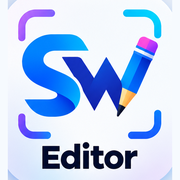
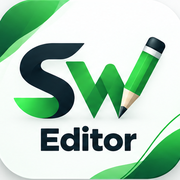
Add files via upload

diff --git a/index.html b/index.html
@@ -8,7 +8,7 @@
 <meta name="apple-mobile-web-app-capable" content="yes">
 <meta name="mobile-web-app-capable" content="yes">
 <meta name="apple-mobile-web-app-title" content="SW Editor">
-<meta name="theme-color" content="#7C3AED">
+<meta name="theme-color" content="#15803D">
 <link rel="stylesheet" href="https://fonts.googleapis.com/css2?family=Sora:wght@500;700&family=Inter:wght@400;500;600&display=swap">
 <style>
 :root{--bg:#F6F8FD;--card:#fff;--ink:#12122A;--mute:#6B6F8A;--line:rgba(18,18,42,.1);--a:#7C3AED;--b:#06B6D4;--grad:linear-gradient(135deg,var(--a),var(--b));--glass:rgba(255,255,255,.72);--sh:0 10px 30px rgba(40,30,90,.15)}
@@ -74,9 +74,11 @@ nav svg,.ib svg{width:24px;height:24px;stroke:currentColor;fill:none;stroke-widt
 .sheet h3{margin-bottom:12px}.sheet .lab{color:var(--mute);margin:14px 0 8px;font-size:13px}
 .tour{text-align:center;padding:8px 4px}.tour .em{font-size:54px}.tour h3{margin:8px 0 4px}.tour p{color:var(--mute);margin-bottom:16px}
 @media(prefers-reduced-motion:reduce){*{animation:none!important;transition:none!important}}
-html[data-pack=purple]{--a:#3F3F46;--b:#8E8E96;--bg:#F2F2F4;--glass:rgba(237,237,239,.7)}
-html[data-pack=purple][data-mode=dark]{--a:#52525B;--bg:#0B0B0E;--glass:rgba(34,34,38,.6)}
-@media(prefers-color-scheme:dark){html[data-pack=purple][data-mode=auto]{--a:#52525B;--bg:#0B0B0E;--glass:rgba(34,34,38,.6)}}
+html[data-pack=purple]{--a:#15803D;--b:#22C55E;--bg:#F4F9F5;--card:#fff;--ink:#0F1F2E;--mute:#5E6F68;--line:rgba(15,31,46,.1);--glass:rgba(255,255,255,.78);--sh:0 10px 30px rgba(21,128,61,.16)}
+html[data-pack=purple][data-mode=dark]{--a:#22C55E;--b:#4ADE80;--bg:#07120C;--card:#0F1E16;--ink:#ECF6EF;--mute:#93A89C;--line:rgba(255,255,255,.1);--glass:rgba(15,30,22,.72);--sh:0 10px 30px rgba(0,0,0,.55)}
+@media(prefers-color-scheme:dark){html[data-pack=purple][data-mode=auto]{--a:#22C55E;--b:#4ADE80;--bg:#07120C;--card:#0F1E16;--ink:#ECF6EF;--mute:#93A89C;--line:rgba(255,255,255,.1);--glass:rgba(15,30,22,.72);--sh:0 10px 30px rgba(0,0,0,.55)}}
+html[data-pack=purple] .btn,html[data-pack=purple] .hero,html[data-pack=purple] nav button.on,html[data-pack=purple] .seg button.on{background:linear-gradient(135deg,#15803D,#22C55E)}
+html[data-pack=purple][data-mode=dark] .btn,html[data-pack=purple][data-mode=dark] .hero,html[data-pack=purple][data-mode=dark] nav button.on,html[data-pack=purple][data-mode=dark] .seg button.on{color:#05210F;background:linear-gradient(135deg,#22C55E,#4ADE80)}
 header{border-radius:0 0 28px 28px;backdrop-filter:blur(28px) saturate(1.8);-webkit-backdrop-filter:blur(28px) saturate(1.8)}
 nav{backdrop-filter:blur(30px) saturate(1.8);-webkit-backdrop-filter:blur(30px) saturate(1.8);border:1px solid rgba(255,255,255,.5)}
 .sheet{background:var(--glass);backdrop-filter:blur(34px) saturate(1.8);-webkit-backdrop-filter:blur(34px) saturate(1.8);border-radius:36px 36px 0 0}
@@ -84,6 +86,20 @@ nav{backdrop-filter:blur(30px) saturate(1.8);-webkit-backdrop-filter:blur(30px) 
 .ib,.btn,.seg button,nav button{transition:transform .15s}.ib:active,.btn:active,.seg button:active,nav button:active{transform:scale(.94)}
 .stage{overflow:hidden;position:sticky;top:0;z-index:6;max-height:40vh}#cv{max-height:40vh;touch-action:none;transition:transform .3s}
 #ptabs{flex-wrap:nowrap;overflow-x:auto}#ptabs button{flex:none}
+
+/* header banner */
+header{position:relative;height:calc(env(safe-area-inset-top) + 72px);padding:env(safe-area-inset-top) 0 0;background:#fff url(banner.png) center/cover no-repeat;border:0;border-radius:0 0 26px 26px;box-shadow:0 6px 22px rgba(21,128,61,.14);backdrop-filter:none;-webkit-backdrop-filter:none}
+header .ib{position:absolute;right:12px;bottom:18px;width:38px;height:38px;background:rgba(255,255,255,.85);border-color:rgba(21,128,61,.25);color:#0F1F2E}
+.sr{position:absolute;width:1px;height:1px;overflow:hidden;clip:rect(0 0 0 0)}
+/* fixed preview on top, tools scroll below */
+.stage{position:relative;top:auto;max-height:36vh;flex:none}
+#cv{max-height:36vh}#vc{max-height:34vh!important}
+.tools{min-height:0}
+main:has(#t-photo.on #ph-ed:not(.hide)),main:has(#t-video.on){overflow:hidden;padding-bottom:0;display:flex;flex-direction:column}
+#t-photo.on:has(#ph-ed:not(.hide)),#t-video.on{flex:1;min-height:0;display:flex;flex-direction:column}
+#ph-ed:not(.hide){flex:1;min-height:0;display:flex;flex-direction:column}
+.tools{flex:1;overflow-y:auto;-webkit-overflow-scrolling:touch;overscroll-behavior:contain;padding-bottom:calc(104px + env(safe-area-inset-bottom))}
+#ph-ed .bar,#t-video .bar{flex:none;flex-wrap:nowrap;overflow-x:auto}
 </style></head>
 <body>
 <section id="login">
@@ -100,7 +116,7 @@ nav{backdrop-filter:blur(30px) saturate(1.8);-webkit-backdrop-filter:blur(30px) 
 </section>
 
 <div id="app" class="hide">
-  <header><img src="mark.png" alt=""><div class="brand">SW Editor</div>
+  <header><span class="sr">SW Editor</span>
     <button class="ib" id="menu" aria-label="Settings"><svg viewBox="0 0 24 24"><circle cx="12" cy="12" r="3"/><path d="M19.4 15a1.7 1.7 0 0 0 .3 1.8l.1.1a2 2 0 1 1-2.8 2.8l-.1-.1a1.7 1.7 0 0 0-1.8-.3 1.7 1.7 0 0 0-1 1.5V21a2 2 0 1 1-4 0v-.1a1.7 1.7 0 0 0-1-1.5 1.7 1.7 0 0 0-1.8.3l-.1.1a2 2 0 1 1-2.8-2.8l.1-.1a1.7 1.7 0 0 0 .3-1.8 1.7 1.7 0 0 0-1.5-1H3a2 2 0 1 1 0-4h.1a1.7 1.7 0 0 0 1.5-1 1.7 1.7 0 0 0-.3-1.8l-.1-.1a2 2 0 1 1 2.8-2.8l.1.1a1.7 1.7 0 0 0 1.8.3h0a1.7 1.7 0 0 0 1-1.5V3a2 2 0 1 1 4 0v.1a1.7 1.7 0 0 0 1 1.5h0a1.7 1.7 0 0 0 1.8-.3l.1-.1a2 2 0 1 1 2.8 2.8l-.1.1a1.7 1.7 0 0 0-.3 1.8v0a1.7 1.7 0 0 0 1.5 1H21a2 2 0 1 1 0 4h-.1a1.7 1.7 0 0 0-1.5 1z"/></svg></button>
   </header>
   <main>
@@ -110,8 +126,8 @@ nav{backdrop-filter:blur(30px) saturate(1.8);-webkit-backdrop-filter:blur(30px) 
       <div id="ph-ed" class="hide">
         <div class="bar"><button class="ib" id="un">Undo</button><button class="ib" id="re">Redo</button><button class="ib" id="bf">Before</button><button class="ib" id="gd">Grid</button><button class="ib" id="zm">Zoom: on</button><button class="ib" id="nw">New photo</button></div>
         <div class="stage" id="stage"><canvas id="cv"></canvas><div class="grid hide" id="grid"></div></div>
-        <div class="seg" id="ptabs" style="margin:12px 0"><button data-p="crop" class="on">Crop</button><button data-p="adj">Adjust</button><button data-p="flt">Filters</button><button data-p="skin">Skin</button><button data-p="rs">Resize</button><button data-p="ex">Export</button></div>
-        <div class="card pp" id="p-crop"><div class="seg" id="ratios"><button data-r="1">1:1</button><button data-r="0.8">4:5</button><button data-r="0.5625">9:16</button><button data-r="1.7778">16:9</button><button data-r="1.3333">4:3</button></div>
+        <div class="seg" id="ptabs" style="margin:12px 0;flex:none"><button data-p="crop" class="on">Crop</button><button data-p="adj">Adjust</button><button data-p="flt">Filters</button><button data-p="skin">Skin</button><button data-p="rs">Resize</button><button data-p="ex">Export</button></div>
+        <div class="tools"><div class="card pp" id="p-crop"><div class="seg" id="ratios"><button data-r="1">1:1</button><button data-r="0.8">4:5</button><button data-r="0.5625">9:16</button><button data-r="1.7778">16:9</button><button data-r="1.3333">4:3</button></div>
           <div class="seg" style="margin-top:10px"><button id="rl">Rotate left</button><button id="rr">Rotate right</button><button id="fh">Flip H</button><button id="fv">Flip V</button></div></div>
         <div class="card pp hide" id="p-adj"><div class="sl"><span>Brightness</span><input type="range" id="a-b" min="-100" max="100" value="0"></div><div class="sl"><span>Contrast</span><input type="range" id="a-c" min="-100" max="100" value="0"></div><div class="sl"><span>Saturation</span><input type="range" id="a-s" min="-100" max="100" value="0"></div><div class="sl"><span>Sharpness</span><input type="range" id="a-sh" min="0" max="100" value="0"></div><button class="ib" id="a-rs" style="width:auto;padding:0 14px">Reset</button></div>
         <div class="card pp hide" id="p-flt"></div>
@@ -119,14 +135,14 @@ nav{backdrop-filter:blur(30px) saturate(1.8);-webkit-backdrop-filter:blur(30px) 
         <div class="card pp hide" id="p-rs"><div class="sl"><span id="rs-l">Size 100%</span><input type="range" id="rs-r" min="20" max="100" value="100"></div><button class="btn" id="rs-go">Apply resize</button></div>
         <div class="card pp hide" id="p-ex"><div class="lab">Format</div><div class="seg" id="fm"><button data-v="jpeg" class="on">JPG</button><button data-v="png">PNG</button></div>
           <div class="lab" style="margin-top:10px">Quality</div><div class="seg" id="ql"><button data-v=".6">Low</button><button data-v=".8">Medium</button><button data-v=".95" class="on">High</button></div>
-          <button class="ib" id="ex-pv" style="width:auto;padding:0 14px;margin-top:12px">Preview</button><button class="btn" id="ex-go" style="margin-top:14px">Save / Share</button></div>
+          <button class="ib" id="ex-pv" style="width:auto;padding:0 14px;margin-top:12px">Preview</button><button class="btn" id="ex-go" style="margin-top:14px">Save / Share</button></div></div>
       </div></div>
     <div class="tab" id="t-video">
       <label class="btn" style="display:block;text-align:center;cursor:pointer">Add video clips<input id="vfile" type="file" accept="video/*" multiple hidden></label>
       <div class="stage" style="margin-top:12px"><canvas id="vc" width="640" height="360" style="max-width:100%;max-height:42vh"></canvas></div>
       <div class="bar" style="margin-top:10px"><button class="ib" id="vplay">Play</button><button class="ib" id="vsplit">Split</button><button class="ib" id="vdel">Delete</button><button class="ib" id="vbf">Before</button><button class="ib" id="vl">Left</button><button class="ib" id="vr">Right</button></div>
-      <div class="seg" id="vclips" style="margin-bottom:10px"></div>
-      <div class="card"><div class="sl"><span id="l-in">Trim start</span><input type="range" id="vin" min="0" max="1" step="0.1" value="0"></div><div class="sl"><span id="l-out">Trim end</span><input type="range" id="vout" min="0" max="1" step="0.1" value="1"></div><div class="sl"><span id="l-sk">Split position</span><input type="range" id="vseek" min="0" max="1" step="0.1" value="0"></div>
+      <div class="seg" id="vclips" style="margin-bottom:10px;flex-wrap:nowrap;overflow-x:auto;flex:none"></div>
+      <div class="tools"><div class="card"><div class="sl"><span id="l-in">Trim start</span><input type="range" id="vin" min="0" max="1" step="0.1" value="0"></div><div class="sl"><span id="l-out">Trim end</span><input type="range" id="vout" min="0" max="1" step="0.1" value="1"></div><div class="sl"><span id="l-sk">Split position</span><input type="range" id="vseek" min="0" max="1" step="0.1" value="0"></div>
         <div class="lab">Speed</div><div class="seg" id="vsp"><button data-v="0.5">0.5x</button><button data-v="1" class="on">1x</button><button data-v="1.5">1.5x</button><button data-v="2">2x</button></div>
         <div class="sl" style="margin-top:10px"><span>Clip volume</span><input type="range" id="vvol" min="0" max="1" step="0.05" value="1"></div></div>
       <div class="card"><div class="lab">Aspect ratio</div><div class="seg" id="vas"><button data-v="0" class="on">Original</button><button data-v="0.5625">9:16</button><button data-v="1">1:1</button><button data-v="1.7778">16:9</button></div>
@@ -136,7 +152,7 @@ nav{backdrop-filter:blur(30px) saturate(1.8);-webkit-backdrop-filter:blur(30px) 
         <div class="lab" style="margin-top:10px">Music</div><label class="ib" style="width:auto;padding:0 14px;display:inline-grid;cursor:pointer" id="vmus">Choose music<input id="vmf" type="file" accept="audio/*" hidden></label>
         <div class="sl" style="margin-top:8px"><span>Music volume</span><input type="range" id="vmv" min="0" max="1" step="0.05" value="0.7"></div></div>
       <div class="card"><div class="lab">Export quality</div><div class="seg" id="vrs"><button data-v="720" class="on">720p</button><button data-v="1080">1080p</button></div>
-        <button class="btn" id="vex" style="margin-top:12px">Export video</button><p id="vst" style="color:var(--mute);font-size:13px;margin-top:8px">Export runs in real time and takes as long as the video. Keep the screen on and don't close the app.</p></div>
+        <button class="btn" id="vex" style="margin-top:12px">Export video</button><p id="vst" style="color:var(--mute);font-size:13px;margin-top:8px">Export runs in real time and takes as long as the video. Keep the screen on and don't close the app.</p></div></div>
     </div>
     <div class="tab" id="t-proj">
       <input id="pq" placeholder="Search projects" style="width:100%;padding:12px;border-radius:12px;border:1px solid var(--line);background:var(--card);color:var(--ink);margin-bottom:10px">
@@ -188,7 +204,7 @@ $("#nav").onclick=e=>{const b=e.target.closest("button");if(!b)return;buzz();
 // sheets
 function sheet(html){const s=document.createElement("div");s.className="shade";s.innerHTML=`<div class="sheet">${html}</div>`;
  s.onclick=e=>{if(e.target===s)s.remove()};document.body.append(s);return s}
-function themeSheet(){const s=sheet(`<h3>Theme</h3><div class="lab">Colour</div><div class="seg" id="sp"><button data-v="purple">Soft Grey</button><button data-v="orange">Sunset Orange</button><button data-v="amoled">AMOLED Black</button></div><div class="lab">Mode</div><div class="seg" id="sm"><button data-v="auto">Auto</button><button data-v="light">Light</button><button data-v="dark">Dark</button></div>`);
+function themeSheet(){const s=sheet(`<h3>Theme</h3><div class="lab">Colour</div><div class="seg" id="sp"><button data-v="purple">SW Green</button><button data-v="orange">Sunset Orange</button><button data-v="amoled">AMOLED Black</button></div><div class="lab">Mode</div><div class="seg" id="sm"><button data-v="auto">Auto</button><button data-v="light">Light</button><button data-v="dark">Dark</button></div>`);
  const mark=()=>{s.querySelectorAll("#sp button").forEach(b=>b.classList.toggle("on",b.dataset.v===(ls.get("pack")||"purple")));
   s.querySelectorAll("#sm button").forEach(b=>b.classList.toggle("on",b.dataset.v===(ls.get("mode")||"auto")))};mark();
  s.querySelector("#sp").onclick=e=>{if(e.target.dataset.v){buzz();ls.set("pack",e.target.dataset.v);applyTheme();mark()}};
@@ -215,6 +231,7 @@ function bl(s,w,h,r,ch){const T=new s.constructor(s.length),O=new s.constructor(
  for(let y=0;y<h;y++)for(let c=0;c<ch;c++){let a=0;const R=y*w;for(let x=-r;x<=r;x++)a+=s[(R+cl(x,w-1))*ch+c];for(let x=0;x<w;x++){T[(R+x)*ch+c]=a/n;a+=s[(R+cl(x+r+1,w-1))*ch+c]-s[(R+cl(x-r,w-1))*ch+c]}}
  for(let x=0;x<w;x++)for(let c=0;c<ch;c++){let a=0;for(let y=-r;y<=r;y++)a+=T[(cl(y,h-1)*w+x)*ch+c];for(let y=0;y<h;y++){O[(y*w+x)*ch+c]=a/n;a+=T[(cl(y+r+1,h-1)*w+x)*ch+c]-T[(cl(y-r,h-1)*w+x)*ch+c]}}
  return O}
+const ed=(r,g,b,L,i)=>{const q=Math.abs(r-L[i])+Math.abs(g-L[i+1])+Math.abs(b-L[i+2]);return q>=70?.15:1-.85*q/70};
 function proc(src,a){const w=src.width,h=src.height,o=mk(w,h),x=o.getContext("2d");x.drawImage(src,0,0);
  const F=FL[a.f],k=a.fs/100,sk=a.sm||a.gl||a.tn||a.ev||a.wr||a.sy||a.tp||a.wh;
  if(!a.b&&!a.c&&!a.s&&!a.sh&&!F&&!sk)return o;
@@ -225,9 +242,9 @@ function proc(src,a){const w=src.width,h=src.height,o=mk(w,h),x=o.getContext("2d
   for(let p=0;p<m.length;p++){const i=p*4,r=d[i],g=d[i+1],b=d[i+2],cb=128-.1687*r-.3313*g+.5*b,cr=128+.5*r-.4187*g-.0813*b;if(cb>77&&cb<127&&cr>133&&cr<173&&r>60)m[p]=1}
   const rS=Math.max(2,Math.round(w/110)),mk2=bl(m,w,h,3,1),bs=(a.sm||a.gl)?bl(d,w,h,rS,4):0,bw=a.wr?bl(d,w,h,Math.max(1,rS>>1),4):0,be=a.ev?bl(d,w,h,rS*5,4):0;
   for(let p=0;p<m.length;p++){let M=mk2[p];if(a.fr&&M>=.03){const dd=Math.hypot(p%w-a.fx*w,(p/w|0)-a.fy*h)/(a.fr/100*Math.min(w,h)),q=dd<1?1:dd<1.25?1-(dd-1)/.25:0;M*=q+(1-q)*a.bd/100}if(M<.03)continue;const i=p*4;let r=d[i],g=d[i+1],b=d[i+2],t;
-   if(a.sm){t=Math.min(1,M*a.sm/100*1.15);r+=(bs[i]-r)*t;g+=(bs[i+1]-g)*t;b+=(bs[i+2]-b)*t}
-   if(a.wr){t=Math.min(1,M*a.wr/100*1.1);r+=(bw[i]-r)*t;g+=(bw[i+1]-g)*t;b+=(bw[i+2]-b)*t}
-   if(a.ev){t=Math.min(1,M*a.ev/100);r+=(be[i]-r)*t;g+=(be[i+1]-g)*t;b+=(be[i+2]-b)*t}
+   if(a.sm){t=Math.min(1,M*a.sm/100*1.15);const e=ed(r,g,b,bs,i);r+=(bs[i]+(r-bs[i])*.45-r)*t*e;g+=(bs[i+1]+(g-bs[i+1])*.45-g)*t*e;b+=(bs[i+2]+(b-bs[i+2])*.45-b)*t*e}
+   if(a.wr){t=Math.min(1,M*a.wr/100*1.1);const e=ed(r,g,b,bw,i);r+=(bw[i]+(r-bw[i])*.5-r)*t*e;g+=(bw[i+1]+(g-bw[i+1])*.5-g)*t*e;b+=(bw[i+2]+(b-bw[i+2])*.5-b)*t*e}
+   if(a.ev){t=Math.min(1,M*a.ev/100);const e=ed(r,g,b,be,i);r+=(be[i]+(r-be[i])*.5-r)*t*e;g+=(be[i+1]+(g-be[i+1])*.5-g)*t*e;b+=(be[i+2]+(b-be[i+2])*.5-b)*t*e}
    if(a.gl){t=M*a.gl/100;r+=t*34;g+=t*26;b+=t*18}
    if(a.tn){t=M*a.tn/100;r+=t*24;b-=t*20;if(t<0){r-=t*24;g-=t*24;b-=t*24}}
    if(a.sy){const l=.299*r+.587*g+.114*b;if(l>165){t=M*a.sy/100*Math.min(1,(l-165)/60)*.9;r-=(r-150)*t;g-=(g-150)*t;b-=(b-150)*t}}

diff --git a/sw.js b/sw.js
@@ -1,5 +1,5 @@
-const C="sw-editor-v5",F=["./","index.html","manifest.json","icon-180.png","icon-192.png","icon-512.png","mark.png"];
-self.addEventListener("install",e=>{e.waitUntil(caches.open(C).then(c=>c.addAll(F)));self.skipWaiting()});
-self.addEventListener("activate",e=>{e.waitUntil(caches.keys().then(k=>Promise.all(k.filter(x=>x!==C).map(x=>caches.delete(x)))));self.clients.claim()});
-self.addEventListener("fetch",e=>{if(e.request.method!=="GET"||new URL(e.request.url).origin!==location.origin)return;
- e.respondWith(fetch(e.request).then(r=>{const cp=r.clone();caches.open(C).then(c=>c.put(e.request,cp));return r}).catch(()=>caches.match(e.request).then(r=>r||caches.match("index.html"))))});
+const C="sw-editor-v7";
+self.addEventListener("install",e=>{self.skipWaiting();e.waitUntil(caches.open(C).then(c=>c.addAll(["./","index.html","manifest.json","banner.png","mark.png","icon-180.png","icon-192.png","icon-512.png"]).catch(()=>{})))});
+self.addEventListener("activate",e=>e.waitUntil(caches.keys().then(k=>Promise.all(k.filter(x=>x!==C).map(x=>caches.delete(x)))).then(()=>self.clients.claim())));
+self.addEventListener("fetch",e=>{if(e.request.method!=="GET")return;
+ e.respondWith(fetch(e.request).then(r=>{if(r.ok&&(e.request.url.startsWith(self.location.origin)||e.request.url.includes("gstatic.com")||e.request.url.includes("fonts.g"))){const k=r.clone();caches.open(C).then(c=>c.put(e.request,k))}return r}).catch(()=>caches.match(e.request)))});
